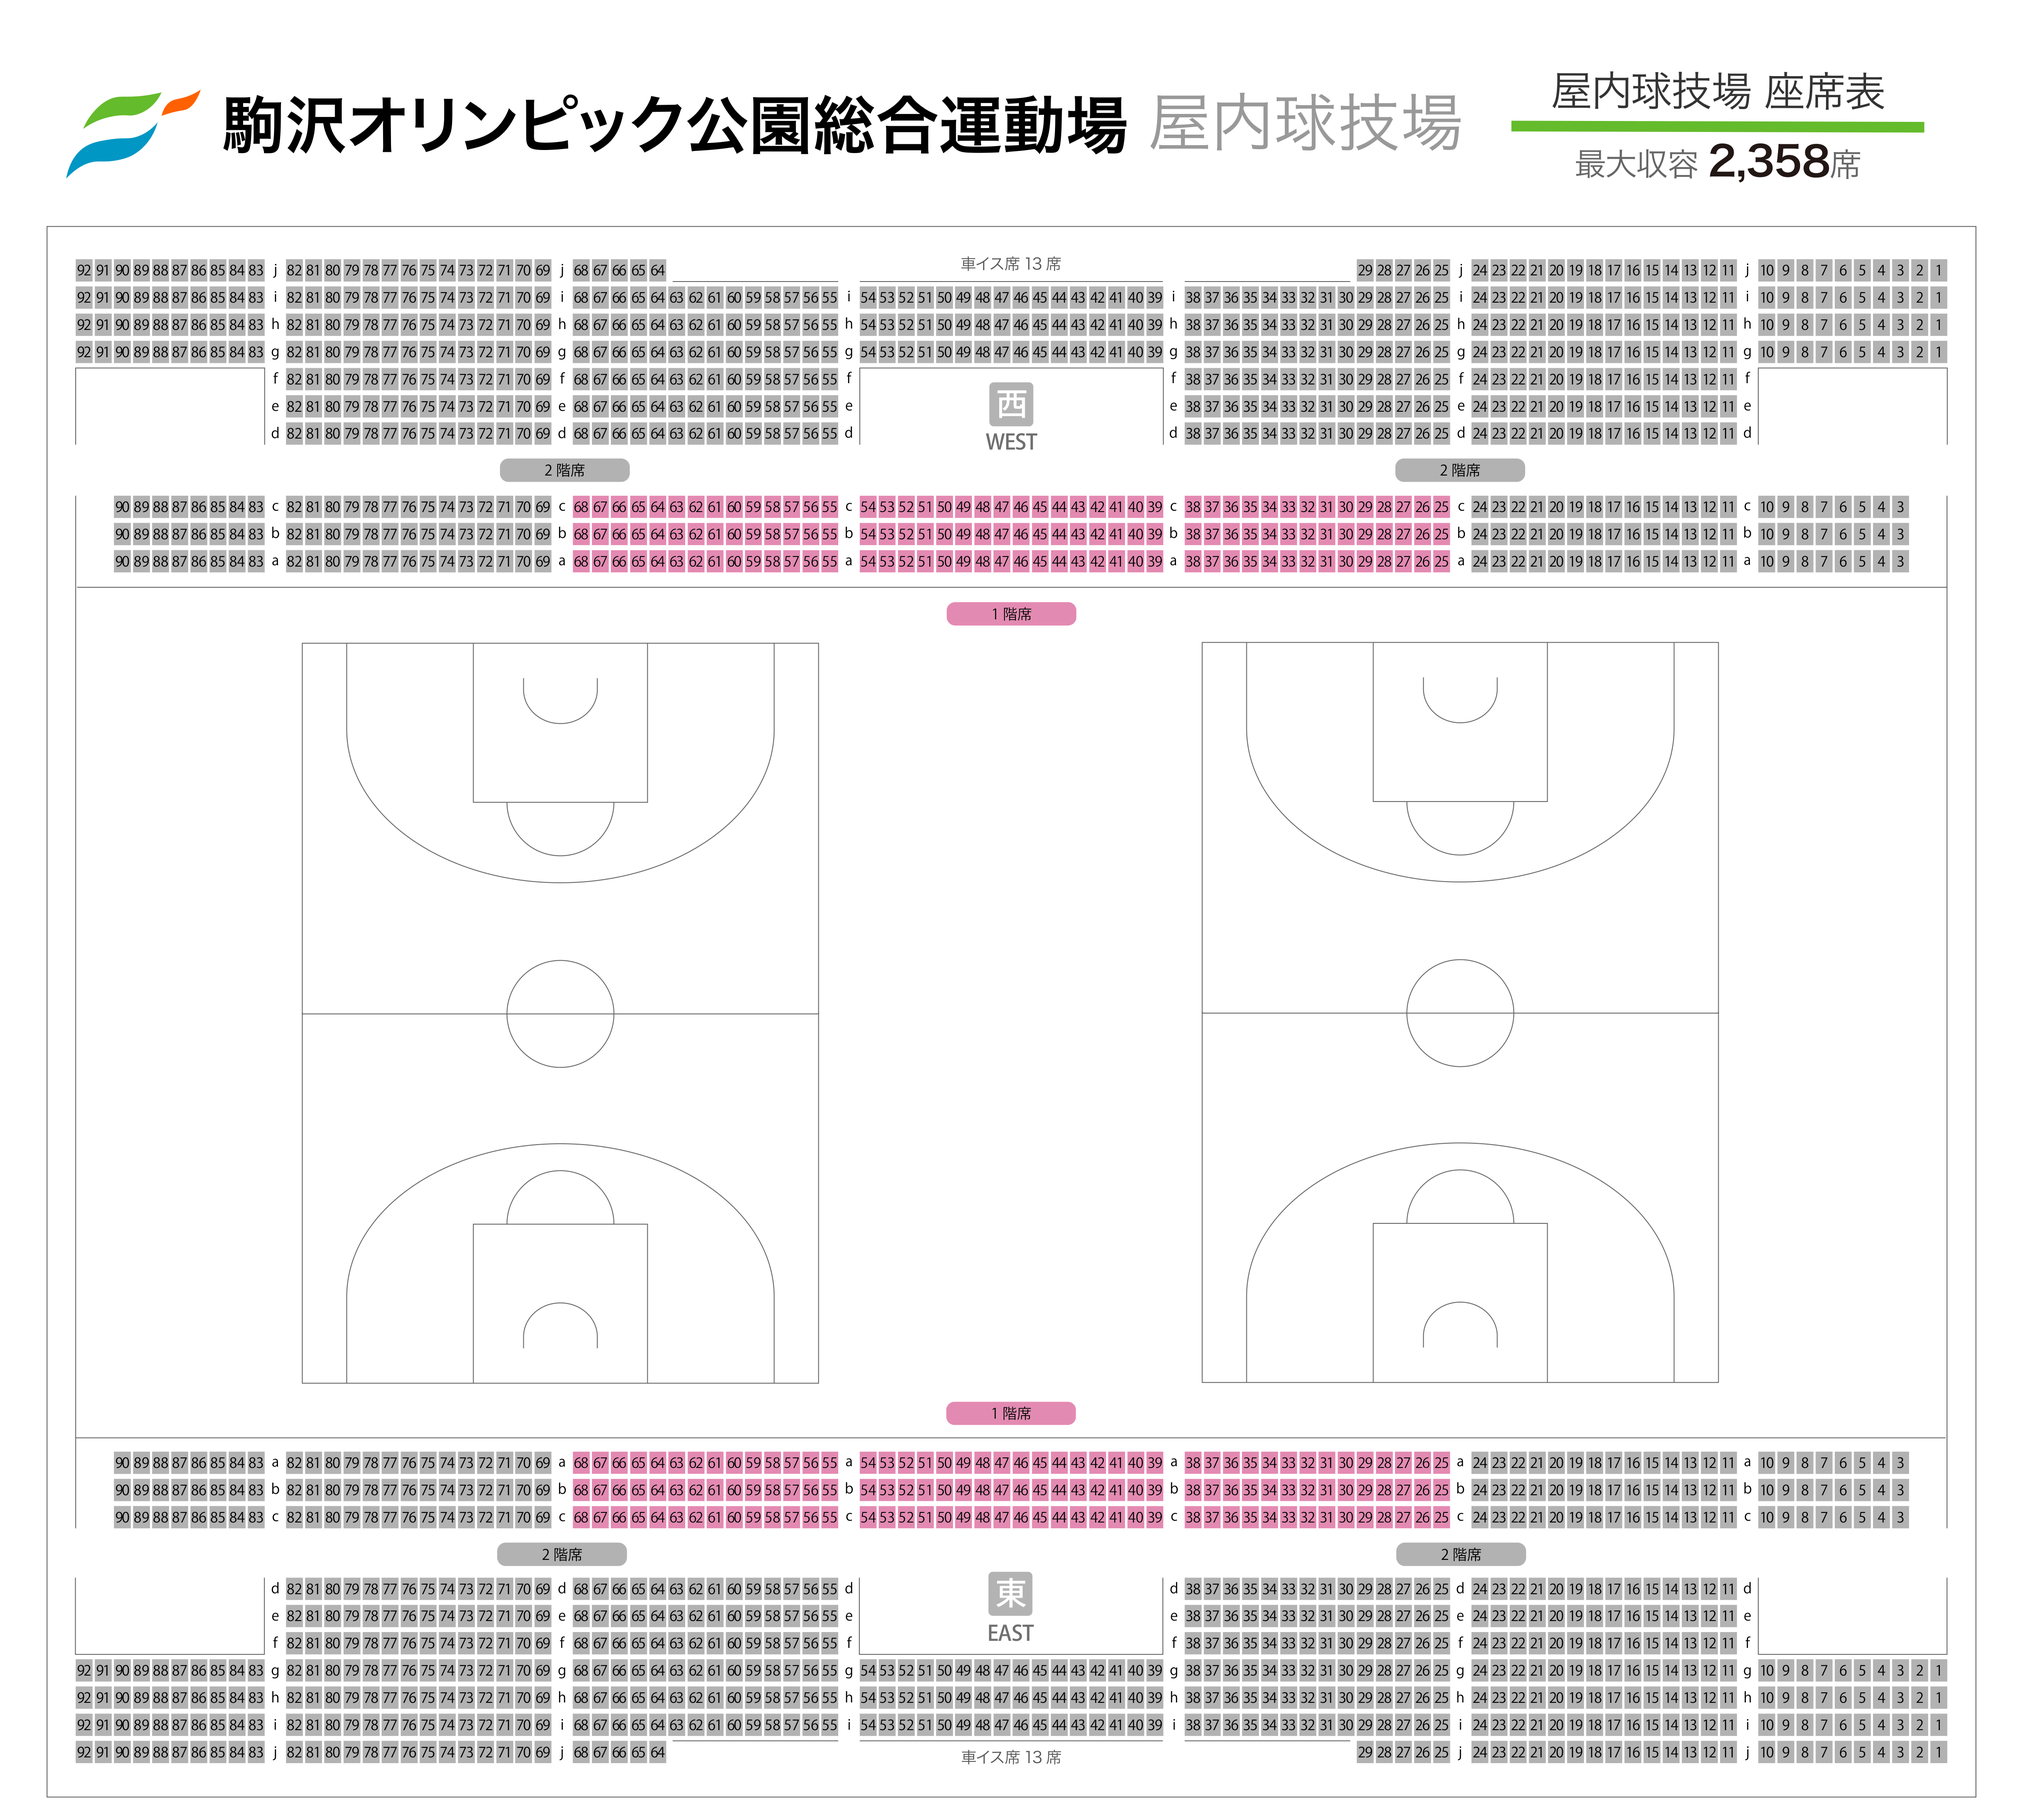
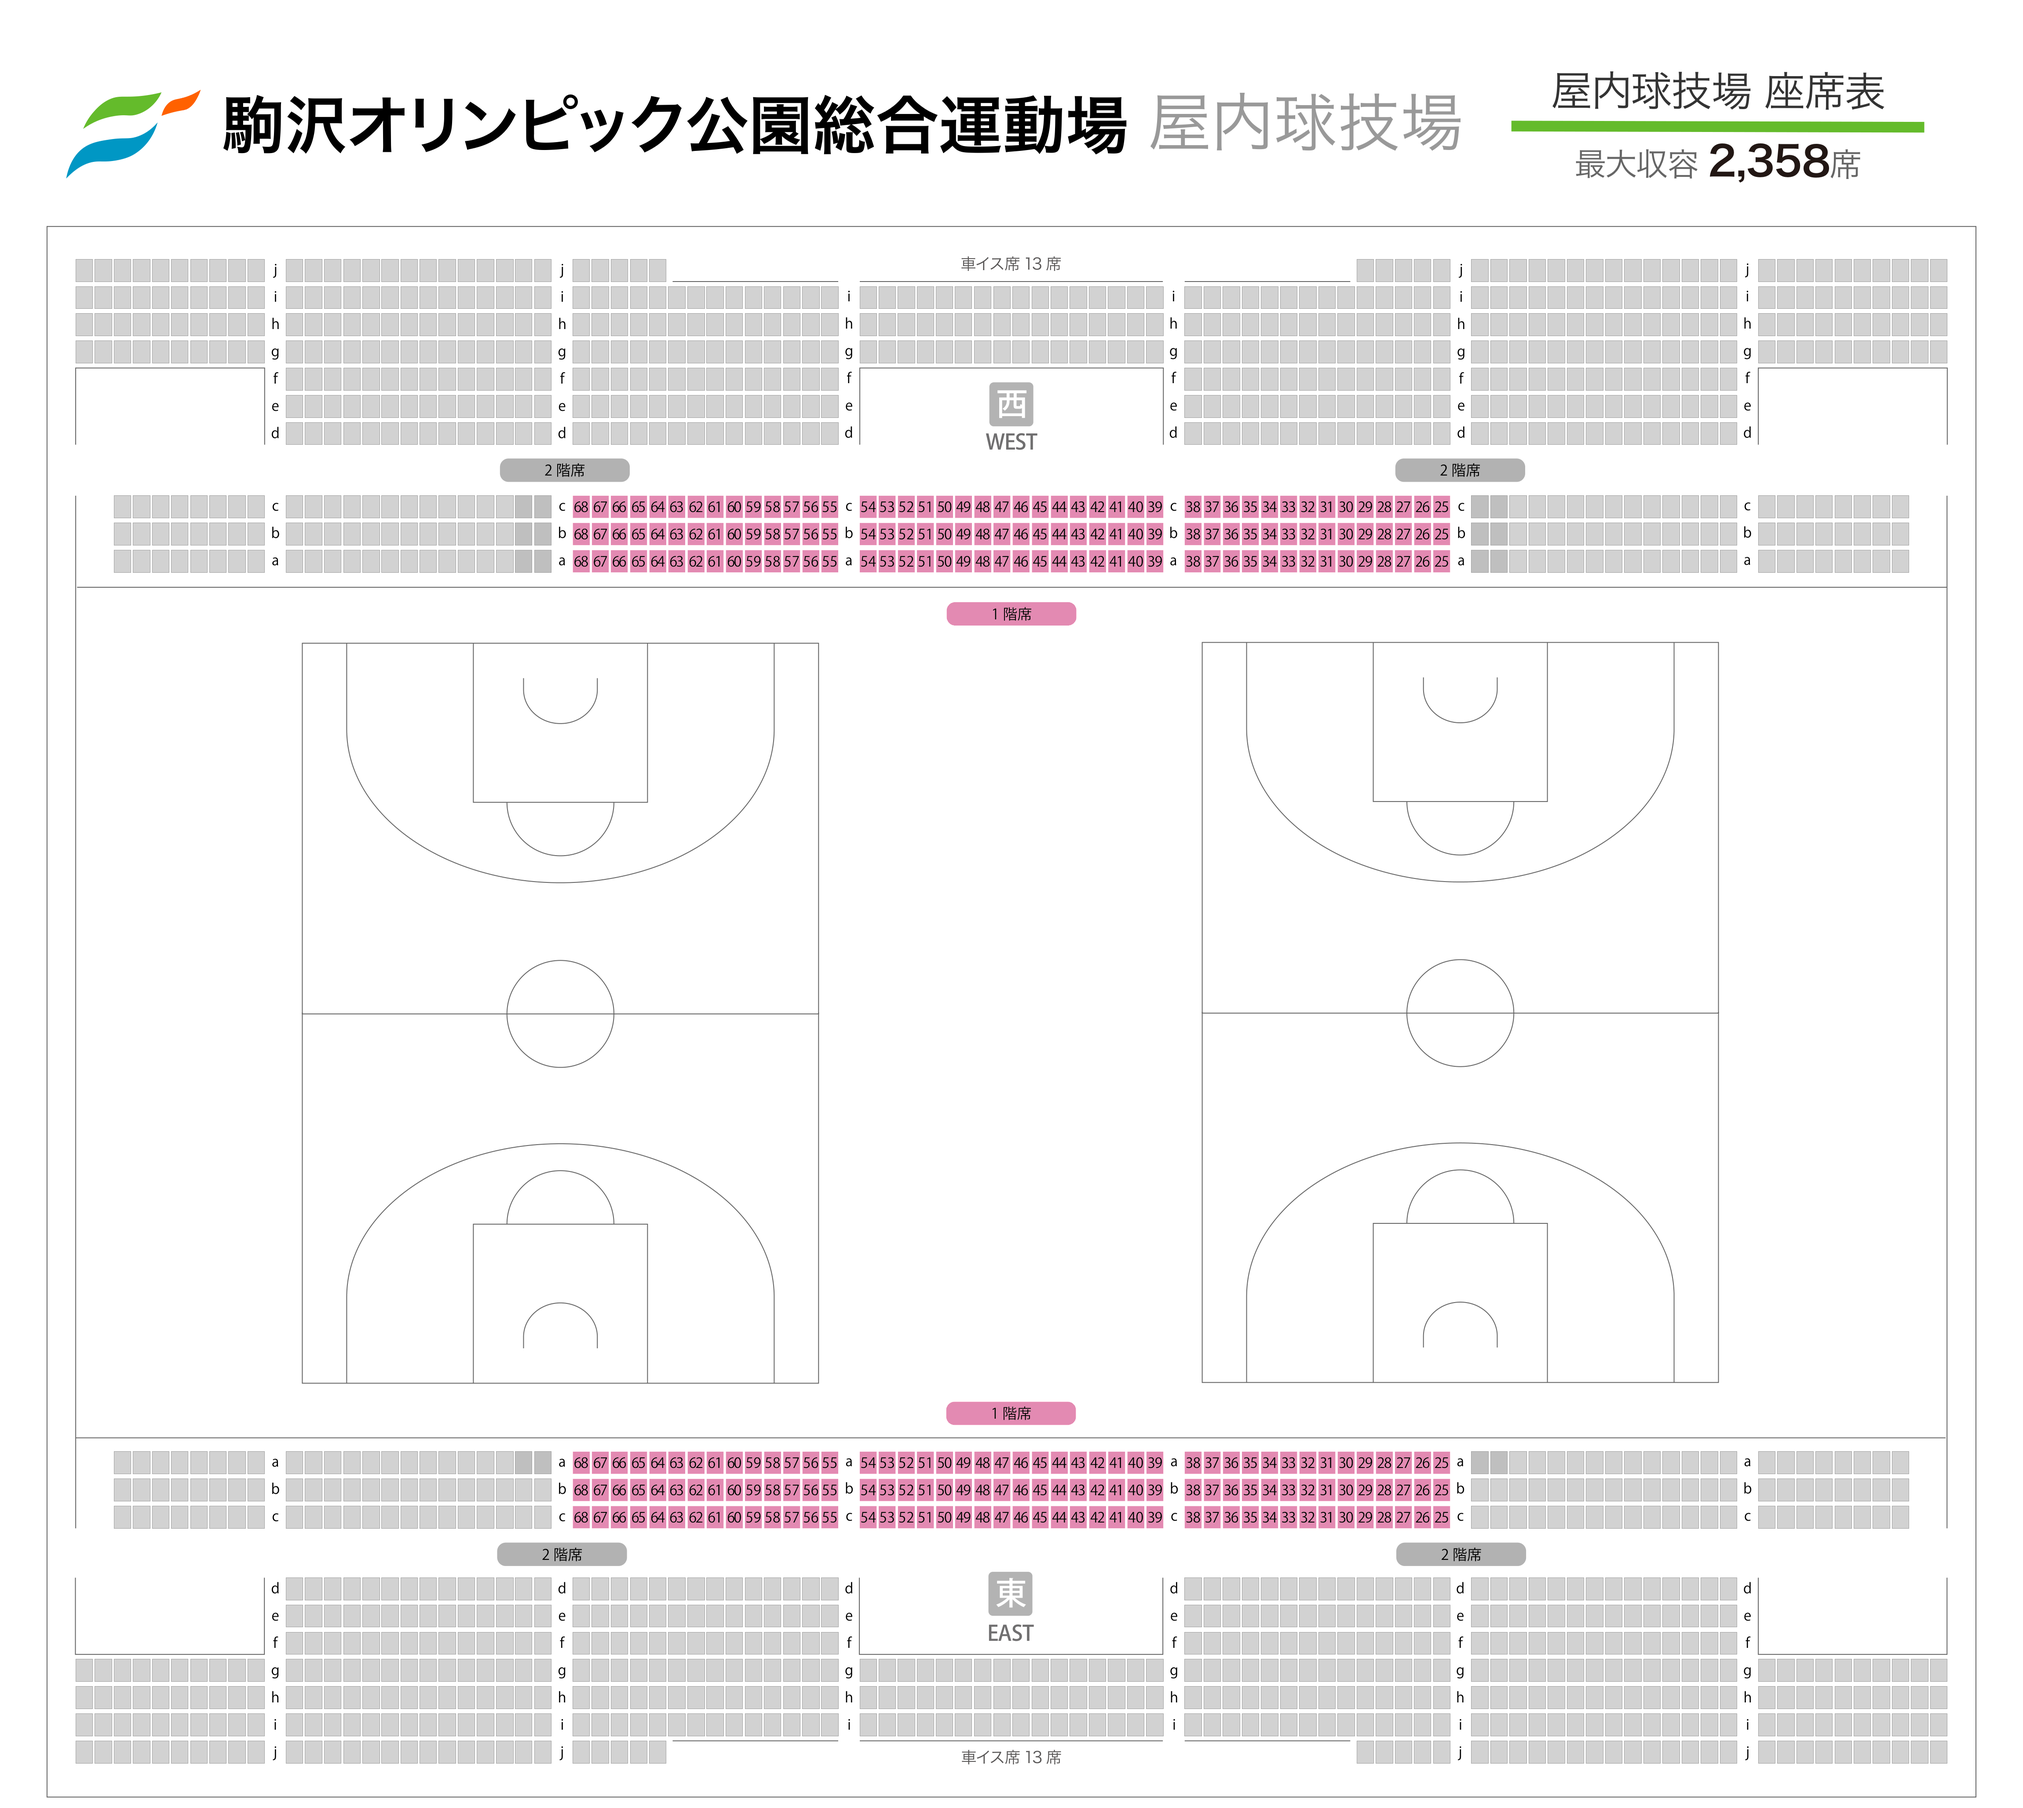
チーム券席を灰色で塗り、中抜けを修正

Changed region(s): [[0.0311, 0.1246, 0.9637, 0.3426], [0.0311, 0.7786, 0.9637, 0.9966]]

diff --git a/src/lib/nonSellableRegions.ts b/src/lib/nonSellableRegions.ts
@@ -21,7 +21,7 @@ export function nonSellableZoneStyle(zone: SeatZone): {
 
 function otaTeamZone(cx: number, cy: number): boolean {
   if (cx < 0.62) return false
-  return (cy >= 0.275 && cy <= 0.485) || (cy >= 0.575 && cy <= 0.785)
+  return cy >= 0.275 && cy <= 0.785
 }
 
 /** オーバーレイ用: 会場ごとに席データを絞り込み（範囲のずれ防止） */

diff --git a/scripts/convert_pdfs.py b/scripts/convert_pdfs.py
@@ -82,26 +82,38 @@ def redact_map_labels(page: fitz.Page, path: Path, scale: float = 2.0) -> None:
     im.save(path)
 
 
-def pdf_red_lines_to_gray(path: Path) -> None:
-    """PDF の赤い囲い線だけ席灰色に置換（白抜け防止）"""
+def paint_nonsellable_seats(path: Path, slug: str) -> None:
+    """PDF が枠だけの席を、抽出データで灰色塗り（チーム券の中抜け防止）"""
+    seat_path = ROOT / "public" / "seats" / f"{slug}.json"
+    if not seat_path.exists():
+        print(f"  skip seat paint (no {seat_path.name})", file=sys.stderr)
+        return
     try:
-        from PIL import Image
+        from PIL import Image, ImageDraw
     except ImportError:
         return
+    data = json.loads(seat_path.read_text(encoding="utf-8"))
     im = Image.open(path).convert("RGB")
-    px = im.load()
+    draw = ImageDraw.Draw(im)
     w, h = im.size
-    gray = (191, 191, 191)
-    changed = 0
-    for y in range(h):
-        for x in range(w):
-            r, g, b = px[x, y]
-            if r >= 200 and g <= 80 and b <= 80 and r - max(g, b) >= 100:
-                px[x, y] = gray
-                changed += 1
-    if changed:
-        im.save(path)
-        print(f"  red lines -> gray: {changed} px on {path.name}")
+    painted = 0
+    for s in data.get("seats", []):
+        zone = s.get("zone")
+        if zone not in ("team_ticket", "floor2"):
+            continue
+        if slug in ("2025-12-12", "2025-12-13") and zone != "team_ticket":
+            continue
+        x0 = int(s["x"] * w)
+        y0 = int(s["y"] * h)
+        x1 = int((s["x"] + s["w"]) * w)
+        y1 = int((s["y"] + s["h"]) * h)
+        if x1 <= x0 or y1 <= y0:
+            continue
+        fill = (191, 191, 191) if zone == "team_ticket" else (210, 210, 210)
+        draw.rectangle([x0, y0, x1, y1], fill=fill, outline=(160, 160, 160))
+        painted += 1
+    im.save(path)
+    print(f"  painted {painted} nonsellable seats on {path.name}")
 
 
 def recolor_floor1_to_pptx_pink(path: Path, slug: str) -> None:
@@ -115,11 +127,15 @@ def recolor_floor1_to_pptx_pink(path: Path, slug: str) -> None:
     w, h = im.size
     changed = 0
     for y in range(h):
+        ny = y / h
         for x in range(w):
+            nx = x / w
             r, g, b = px[x, y]
             if is_seat_gray(r, g, b):
                 continue
             if slug in ("2025-12-12", "2025-12-13"):
+                if nx >= 0.62:
+                    continue
                 if not is_ota_floor1_blue(r, g, b):
                     continue
             elif not is_pdf_floor1_pink(r, g, b):
@@ -166,11 +182,10 @@ def main() -> None:
         pix.save(out)
         doc.close()
         recolor_floor1_to_pptx_pink(out, slug)
-        if slug in ("2025-12-12", "2025-12-13"):
-            pdf_red_lines_to_gray(out)
         doc = fitz.open(pdf)
         redact_map_labels(doc[0], out, scale=2.0)
         doc.close()
+        paint_nonsellable_seats(out, slug)
         meta = {
             "slug": slug,
             "page_width": pw,

diff --git a/scripts/extract_seats_from_pdf.py b/scripts/extract_seats_from_pdf.py
@@ -69,10 +69,10 @@ def is_pink_floor1_komori(r: float, g: float, b: float) -> bool:
 
 
 def is_ota_team_zone(cx: float, cy: float) -> bool:
-    """大田区 PDF: 東側ベンチ外・メンバー・チーム券（上下2ブロック）"""
+    """大田区 PDF: 東側チーム券列（上下の隙間も含む）"""
     if cx < 0.62:
         return False
-    return (0.275 <= cy <= 0.485) or (0.575 <= cy <= 0.785)
+    return 0.275 <= cy <= 0.785
 
 
 def is_blue_floor1(r: float, g: float, b: float) -> bool:
